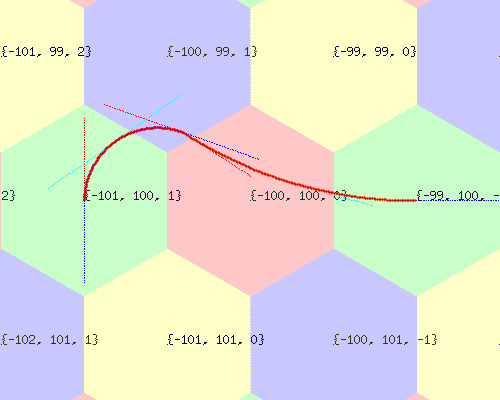
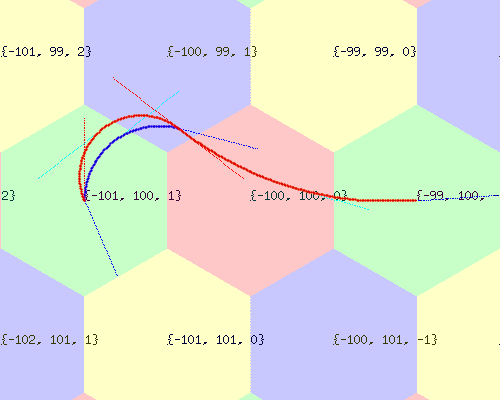
misleading dot product

Changed region(s): [[0.15, 0.27, 0.36, 0.51], [0.36, 0.33, 0.78, 0.51]]

diff --git a/curve/smoothPath.go b/curve/smoothPath.go
@@ -83,15 +83,26 @@ func findRoots(a, b, c complex128) (r1 complex128, r2 complex128) {
 }
 
 func chooseRoot(r1, r2 complex128) float64 {
-	if closeEnough(imag(r1), 0.0) && real(r1) >= 0.0 {
-		return real(r1)
-	} else if closeEnough(imag(r2), 0.0) && real(r2) >= 0.0 {
-		return real(r2)
+	r1IsReal := closeEnough(imag(r1), 0.0)
+	r2IsReal := closeEnough(imag(r2), 0.0)
+	r1IsPositive := real(r1) >= 0.0
+	r2IsPositive := real(r2) >= 0.0
+
+	if r1IsReal && r2IsReal {
+		if r1IsPositive && r2IsPositive {
+			return math.Min(real(r1), real(r2))
+		} else {
+			return math.Max(real(r1), real(r2))
+		}
 	} else {
-		//panic(fmt.Sprintf("Can't find good roots for %v*β^2+%v*β+%v=0 (%v and %v)", a, b, c, r1, r2))
-		// turns out this is annoying and sometimes "good enough" is best
 		return math.Max(real(r1), real(r2))
 	}
+}
+
+func cartesianDotProduct(a, b pos.HexFractional) float64 {
+	aX, aY := a.ToCartesian()
+	bX, bY := b.ToCartesian()
+	return aX*bX + aY*bY
 }
 
 // Biarc returns a list of circular arcs that connect pi to pe,
@@ -119,11 +130,11 @@ func Biarc(pi, ti, pe, te pos.HexFractional, r float64) (arcs []CircularArc) {
 	// Now find the positive root for
 	// v ⋅ v + 2 β v ⋅ ( r t s + t e ) + 2 r β 2 ( t s ⋅ t e − 1 ) = 0
 	// β^2
-	a := 2.0 * r * (ti.DotProduct(te) - 1.0)
+	a := 2.0 * r * (cartesianDotProduct(ti, te) - 1.0)
 	// β
-	b := v.Multiply(2.0).DotProduct(ti.Multiply(r).Add(te))
+	b := cartesianDotProduct(v.Multiply(2.0), ti.Multiply(r).Add(te))
 	// constant
-	c := v.DotProduct(v)
+	c := cartesianDotProduct(v, v)
 
 	// Semicircle case
 	if closeEnough(a, 0.0) {
@@ -137,10 +148,10 @@ func Biarc(pi, ti, pe, te pos.HexFractional, r float64) (arcs []CircularArc) {
 		}
 	}
 
-	if closeEnough(ti.DotProduct(te), 1.0) {
+	if closeEnough(cartesianDotProduct(ti, te), 1.0) {
 		panic("unhandled special case #1")
 	}
-	if closeEnough(v.DotProduct(ti.Multiply(r).Add(te)), 0.0) {
+	if closeEnough(cartesianDotProduct(v, ti.Multiply(r).Add(te)), 0.0) {
 		panic("unhandled special case #2")
 	}
 
@@ -164,11 +175,11 @@ func Biarc(pi, ti, pe, te pos.HexFractional, r float64) (arcs []CircularArc) {
 
 	j := pos.LerpHexFractional(wte, wti, beta/(alpha+beta))
 	// tj is the tangent at point j
-	//tj := wte.Subtract(wti).Normalize()
+	tj := wte.Subtract(wti).Normalize()
 	//_, tj, _ := CircularArc{pi, ti, j}.Curve().Sample(1.0)
 	// Dumb way #3...
-	_, tjp, _ := CircularArc{pe, te.Multiply(-1.0), j}.Curve().Sample(1.0)
-	tj := tjp.Multiply(-1.0)
+	//_, tjp, _ := CircularArc{pe, te.Multiply(-1.0), j}.Curve().Sample(1.0)
+	//tj := tjp.Multiply(-1.0)
 
 	return []CircularArc{
 		CircularArc{pi, ti, j},

diff --git a/pos/hexFractional.go b/pos/hexFractional.go
@@ -132,9 +132,9 @@ func (h HexFractional) Normalize() HexFractional {
 
 // DotProduct returns the dot product.
 // See https://en.wikipedia.org/wiki/Dot_product
-func (h HexFractional) DotProduct(x HexFractional) float64 {
-	return h.Q*x.Q + h.R*x.R + h.S()*x.S()
-}
+//func (h HexFractional) DotProduct(x HexFractional) float64 {
+//	return h.Q*x.Q + h.R*x.R + h.S()*x.S()
+//}
 
 // ProjectOn projects h onto x.
 // It returns a vector parallel to x.
